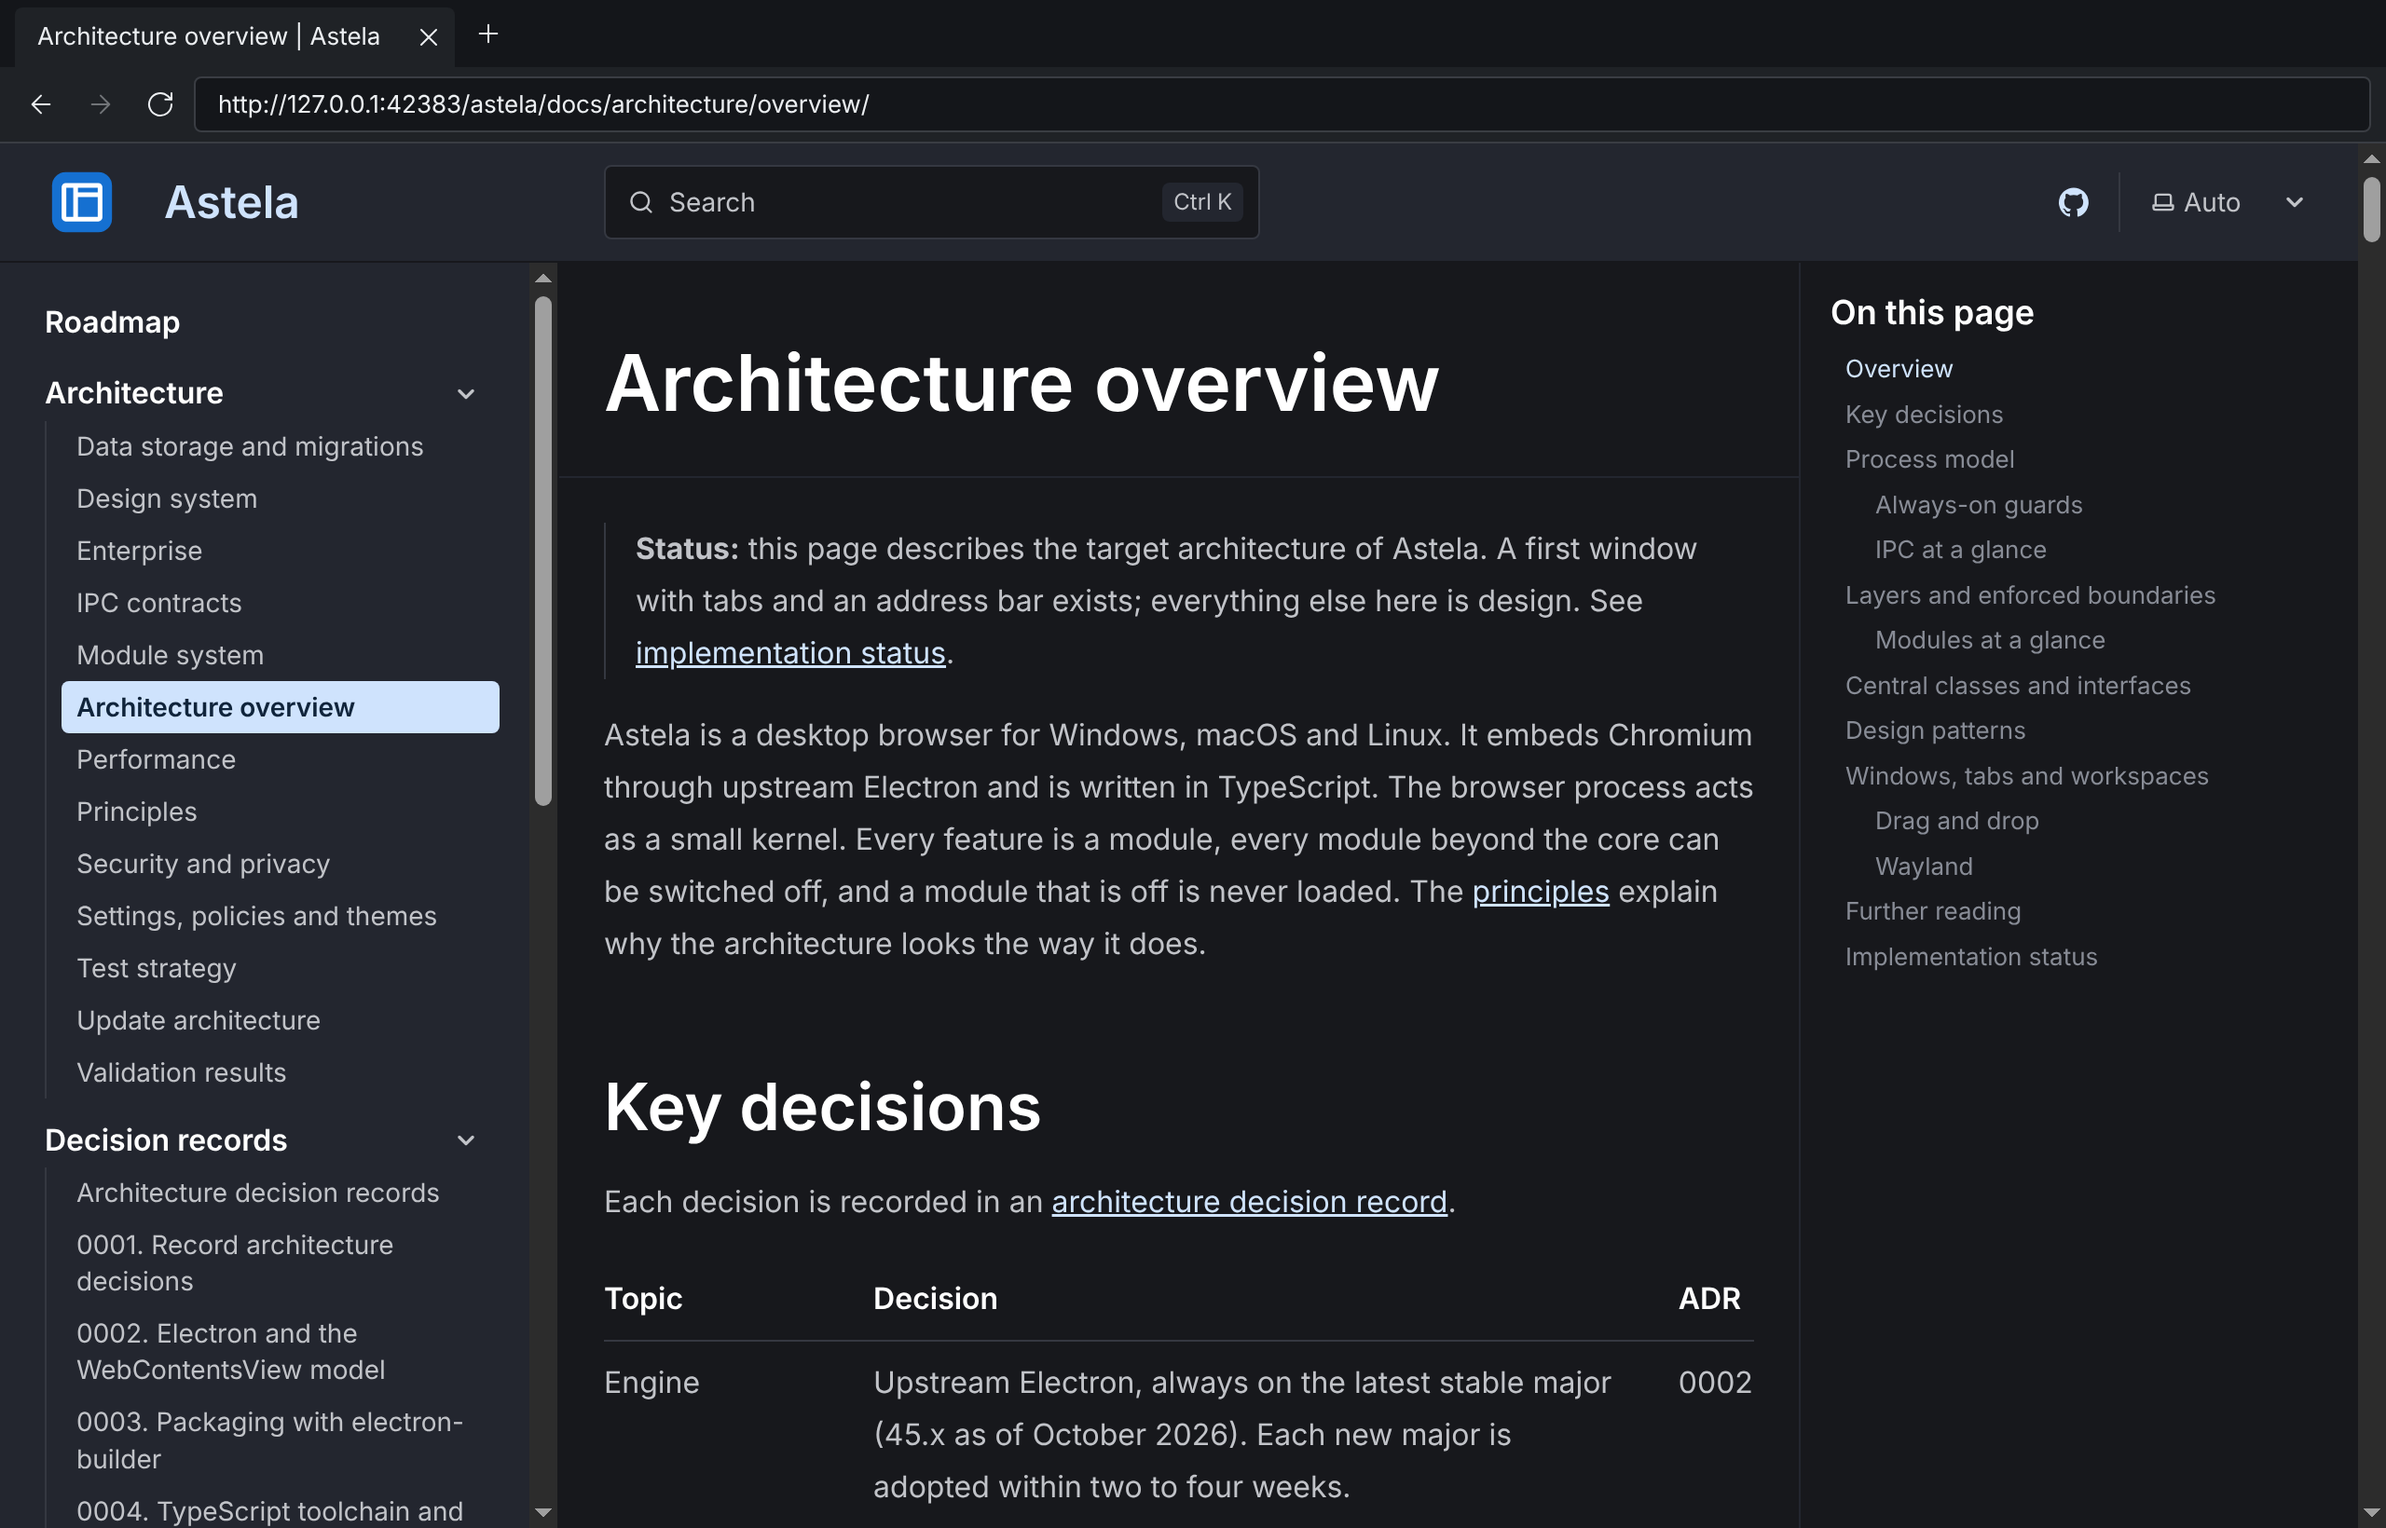
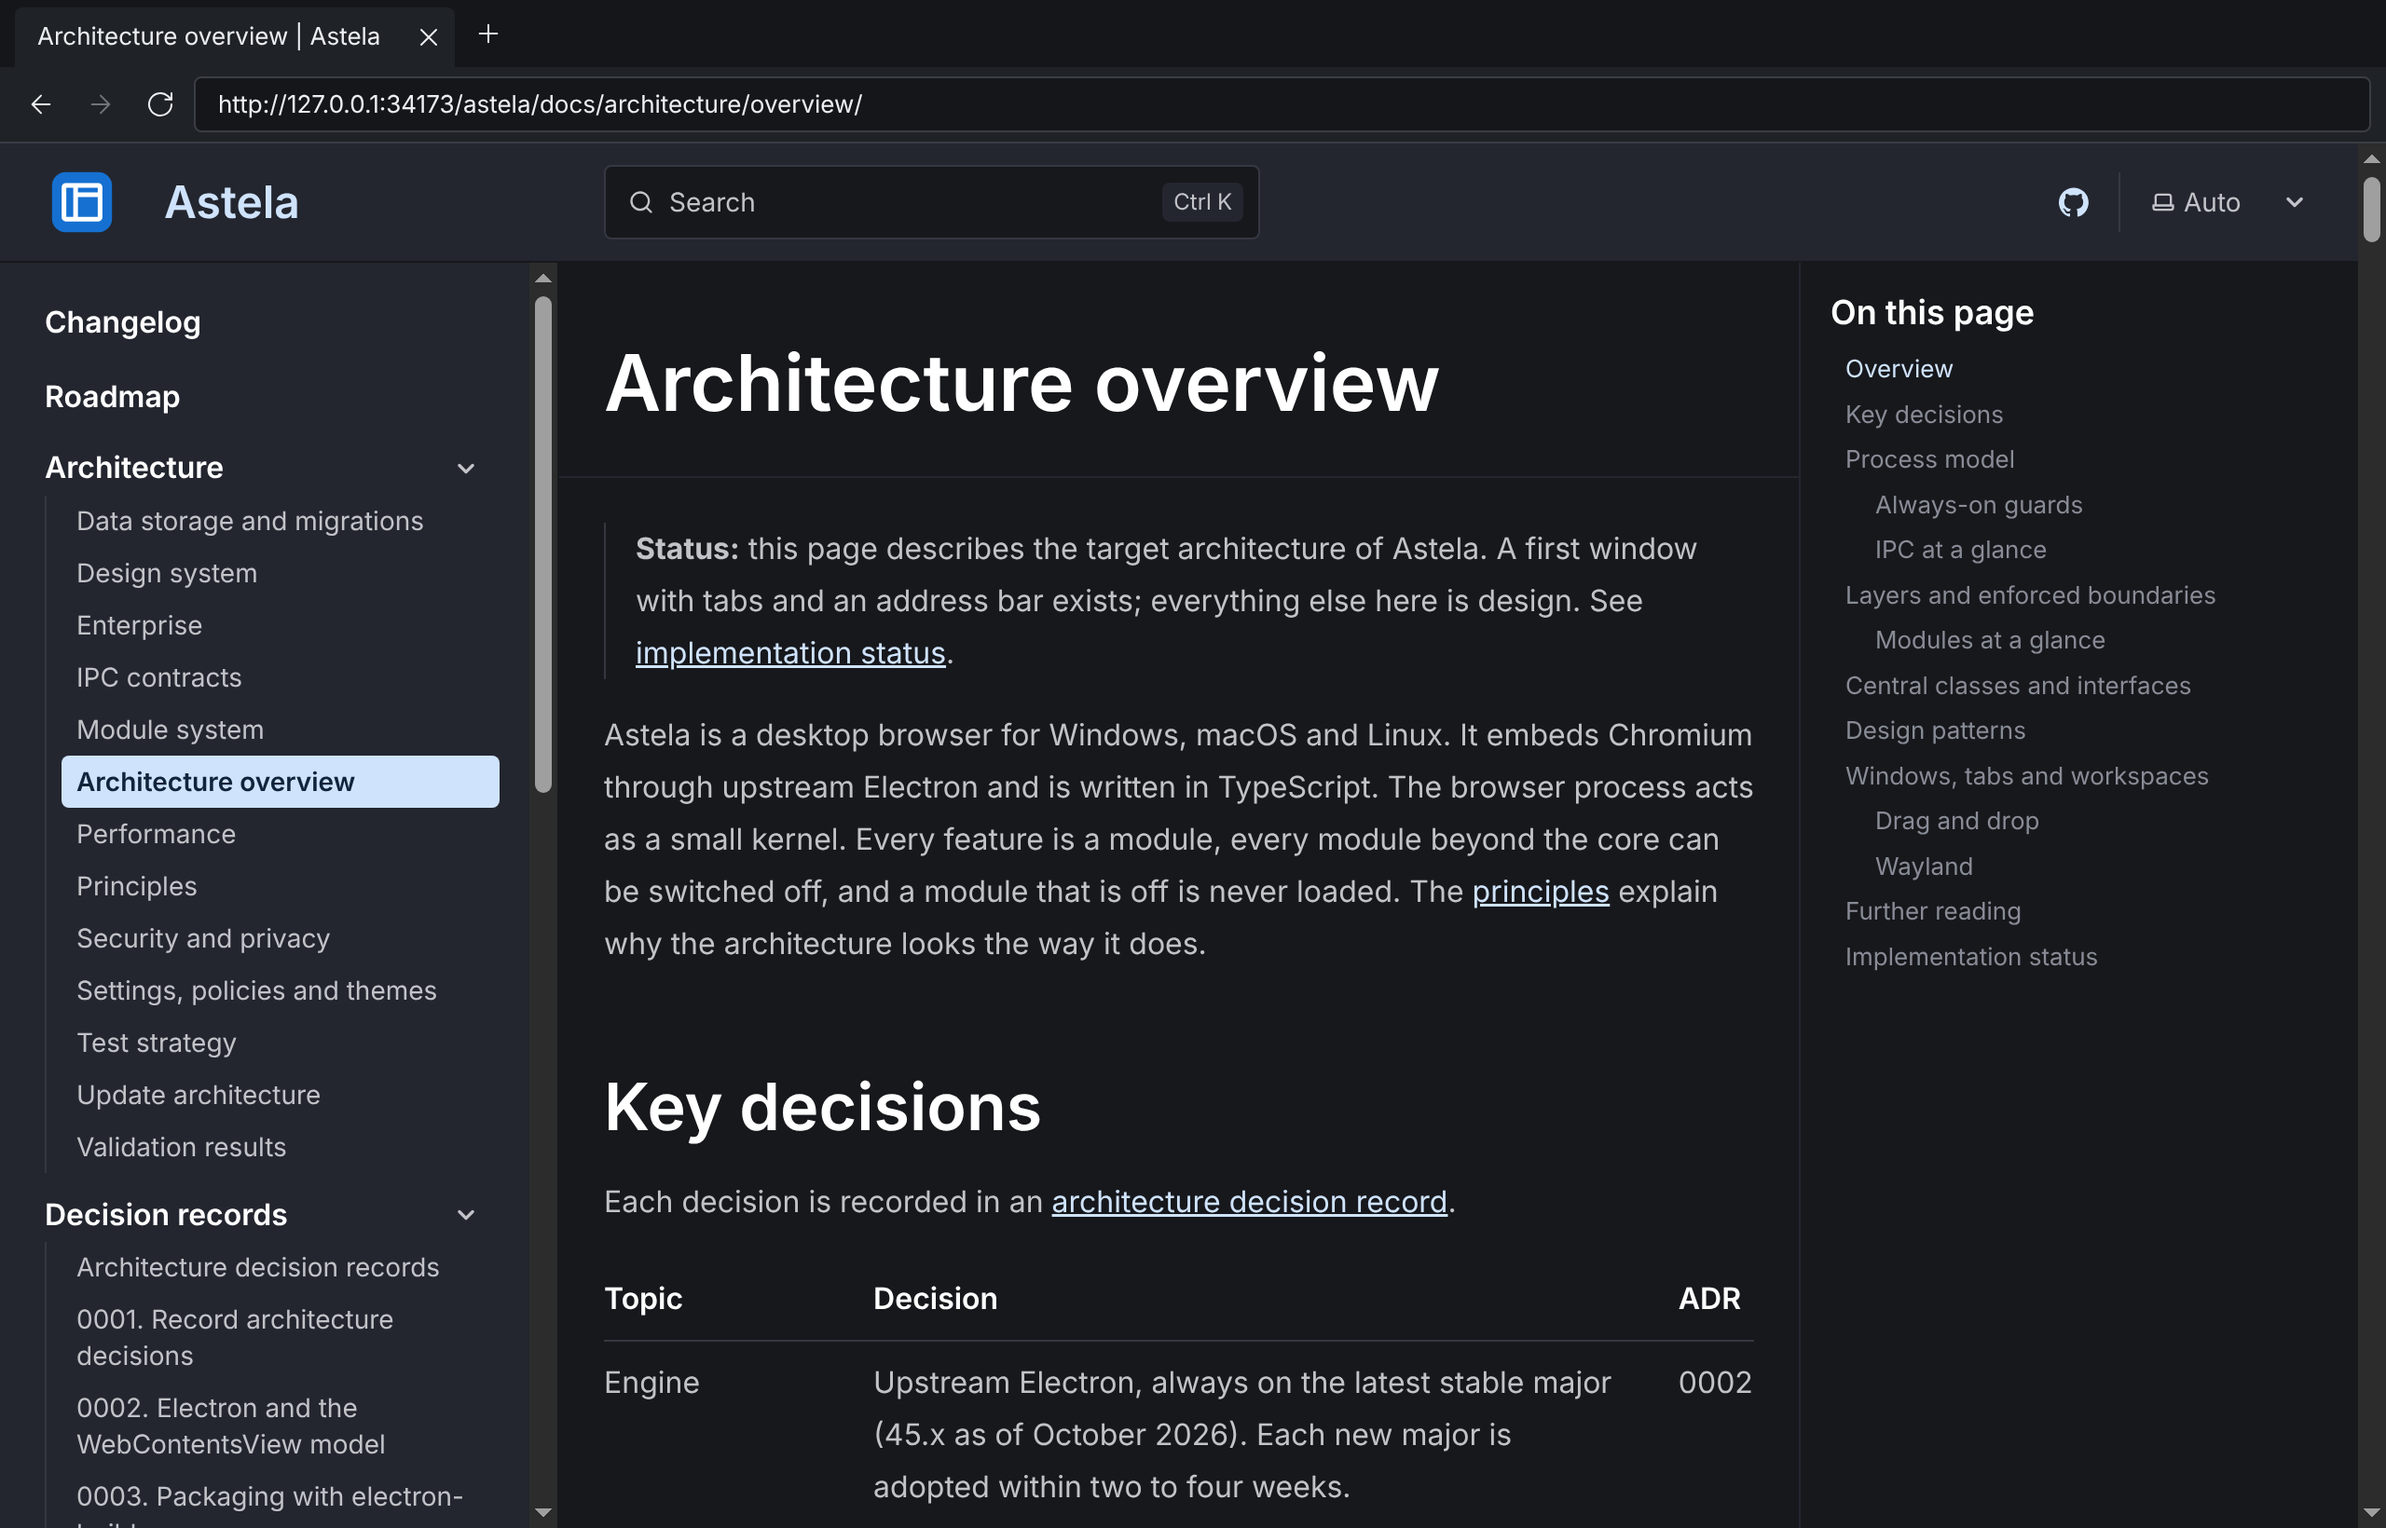
chore(release): v0.1.0-beta.1 (#30)

Changed region(s): [[0.0, 0.2488, 0.2188, 0.9951], [0.1562, 0.0622, 0.375, 0.0933], [0.0, 0.1866, 0.0938, 0.2177]]

diff --git a/README.md b/README.md
@@ -2,7 +2,7 @@
 
 A desktop browser for Windows, macOS and Linux, built on Chromium through Electron and written in TypeScript. It has no telemetry, no ads, no sponsored tiles, no news feed and needs no account.
 
-> **Status:** early development. The first beta, 0.1.0-beta.1, is being prepared; the [roadmap](docs/roadmap.md) lists every milestone.
+> **Status:** early development. The first beta, 0.1.0-beta.1, is on the [releases page](https://github.com/Secoolioo/astela/releases); the [roadmap](docs/roadmap.md) lists every milestone.
 
 <picture>
   <source media="(prefers-color-scheme: dark)" srcset="assets/screenshots/screenshot-dark.png">
@@ -14,7 +14,7 @@ A desktop browser for Windows, macOS and Linux, built on Chromium through Electr
 - **Packages** for Windows (NSIS installer, MSI), macOS (disk image) and Linux (AppImage, deb, rpm), for x64 and arm64. CI installs and starts every format on every change.
 - **Signed updates** with delta downloads. After two failed starts, the previous version comes back on its own. deb and rpm packages update through APT and DNF repositories.
 - **Policies** from the Windows registry, macOS configuration profiles and JSON files on Linux, read before the first window opens.
-- **Performance budgets**, measured against a bare Electron app on all three systems for every change: start-up at most 120 ms and 25 % slower than the bare app, idle memory at most 60 MB above it (50 MB on macOS), idle CPU at most 0.5 % of one core. See [performance](docs/architecture/performance.md).
+- **Performance budgets**, measured against a bare Electron app on all three systems for every change: start-up at most 120 ms and 25 % slower than the bare app (on macOS still a target: its CI runners show 10 to 60 %, and the gate there stops at 75 % until the shell starts faster), idle memory at most 60 MB above it (50 MB on macOS), idle CPU at most 0.5 % of one core. See [performance](docs/architecture/performance.md).
 - **Security fixes** from Electron ship in a patch release within 72 hours, critical ones within 24 hours.
 
 ## Planned for 0.1.0

diff --git a/CHANGELOG.md b/CHANGELOG.md
@@ -1,0 +1,24 @@
+# Changelog
+
+All notable changes are listed here, newest first. Versions follow [Semantic Versioning](https://semver.org); prereleases (`-beta.N`) are published on the beta channel.
+
+## [0.1.0-beta.1] - 2026-10-29
+
+The first beta: a minimal browser that already runs through the complete package, update, release and website chain. It is meant for testing, not for daily use yet.
+
+### Features
+
+- Browser windows with tabs and an address bar that tells addresses from searches. Tabs open, close, switch and reopen after closing; pages go back, forward and reload, from the toolbar or with keyboard shortcuts.
+- Security baseline: every page runs sandboxed and isolated, permission requests are denied, and web pages cannot open the browser's internal pages. The browser sends no telemetry.
+- Policies from the Windows registry, macOS configuration profiles and JSON files on Linux, read before the first window opens.
+- Signed updates on the beta channel with delta downloads. If a new version fails to start twice, the previous version comes back on its own.
+
+### Packaging
+
+- Windows installer (NSIS), macOS disk image and Linux AppImage, deb and rpm packages, each for x64 and arm64. MSI packages start with 0.1.0, the first stable release. The Windows installer closes a running browser without PowerShell or WMI, whose queries took minutes on some systems.
+- APT and DNF repositories for the deb and rpm packages. Installing a package adds its repository, so the browser updates with the system.
+- Every release ships `SHA256SUMS` with two signatures, a software bill of materials and build provenance attestations, so every download can be verified.
+
+### Documentation
+
+- Website with a download page, the roadmap, the architecture documentation and decision records, the maintainer workflow, an API reference and this changelog.

diff --git a/docs/roadmap.md b/docs/roadmap.md
@@ -1,6 +1,6 @@
 # Roadmap
 
-> **Status:** this roadmap is a plan. Nothing has been released yet, and none of the features below is available today. Scope and order may change as the work progresses.
+> **Status:** `0.1.0-beta.1`, the walking skeleton below, is the first release. Everything after it is still a plan; scope and order may change as the work progresses.
 
 ## Vision
 
